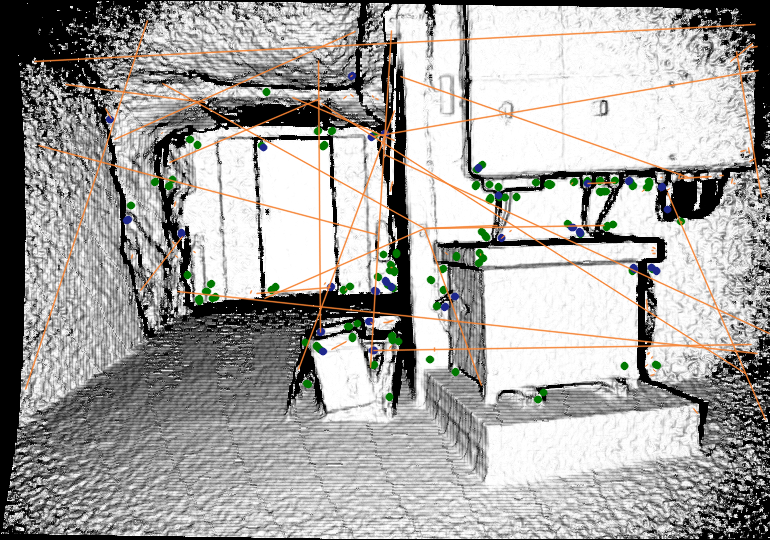
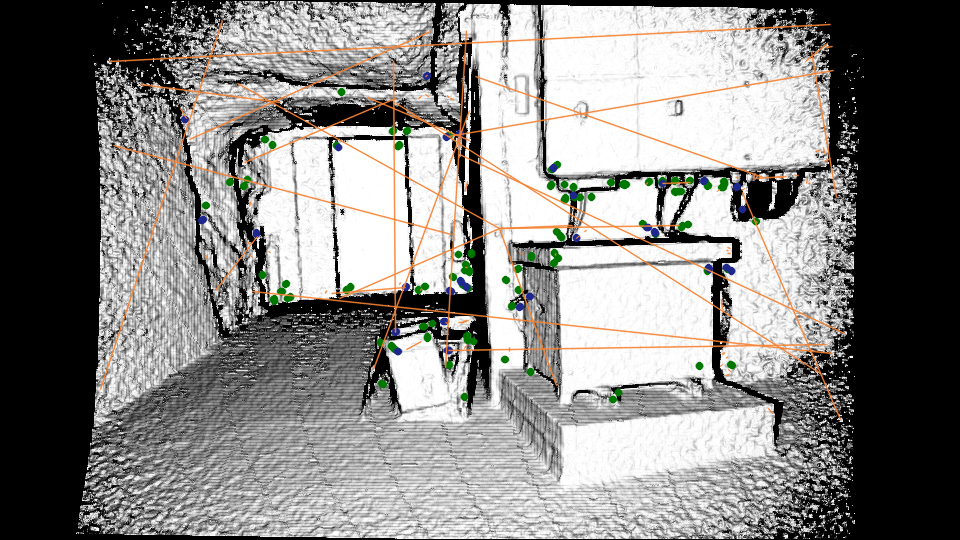
[C] better plot of backprojections

diff --git a/chapterC/akaze.tex b/chapterC/akaze.tex
@@ -3,7 +3,7 @@
     \includegraphics[width=0.25\linewidth]{chapter06/results/AKAZE/backprojections/lehrpfad/backprojected-0090.png}%
     \includegraphics[width=0.25\linewidth]{chapter06/results/AKAZE/backprojections/lehrpfad/backprojected-0180.png}%
     \includegraphics[width=0.25\linewidth]{chapter06/results/AKAZE/backprojections/lehrpfad/backprojected-0360.png}%
-    \includegraphics[width=0.25\linewidth]{chapter06/results/AKAZE/backprojections/lehrpfad/backprojected-0630.png}\\
+    \includegraphics[width=0.25\linewidth]{chapter06/results/AKAZE/backprojections/lehrpfad/backprojected-0631.png}\\
     \includegraphics[width=0.25\linewidth]{chapter06/results/AKAZE/backprojections/office/backprojected-0001.png}%
     \includegraphics[width=0.25\linewidth]{chapter06/results/AKAZE/backprojections/office/backprojected-0014.png}%
     \includegraphics[width=0.25\linewidth]{chapter06/results/AKAZE/backprojections/office/backprojected-0028.png}%

diff --git a/chapterC/sift.tex b/chapterC/sift.tex
@@ -3,7 +3,7 @@
     \includegraphics[width=0.25\linewidth]{chapter06/results/SIFT/backprojections/lehrpfad/backprojected-0090.png}%
     \includegraphics[width=0.25\linewidth]{chapter06/results/SIFT/backprojections/lehrpfad/backprojected-0180.png}%
     \includegraphics[width=0.25\linewidth]{chapter06/results/SIFT/backprojections/lehrpfad/backprojected-0360.png}%
-    \includegraphics[width=0.25\linewidth]{chapter06/results/SIFT/backprojections/lehrpfad/backprojected-0630.png}\\
+    \includegraphics[width=0.25\linewidth]{chapter06/results/SIFT/backprojections/lehrpfad/backprojected-0631.png}\\
     \includegraphics[width=0.25\linewidth]{chapter06/results/SIFT/backprojections/office/backprojected-0001.png}%
     \includegraphics[width=0.25\linewidth]{chapter06/results/SIFT/backprojections/office/backprojected-0014.png}%
     \includegraphics[width=0.25\linewidth]{chapter06/results/SIFT/backprojections/office/backprojected-0028.png}%
